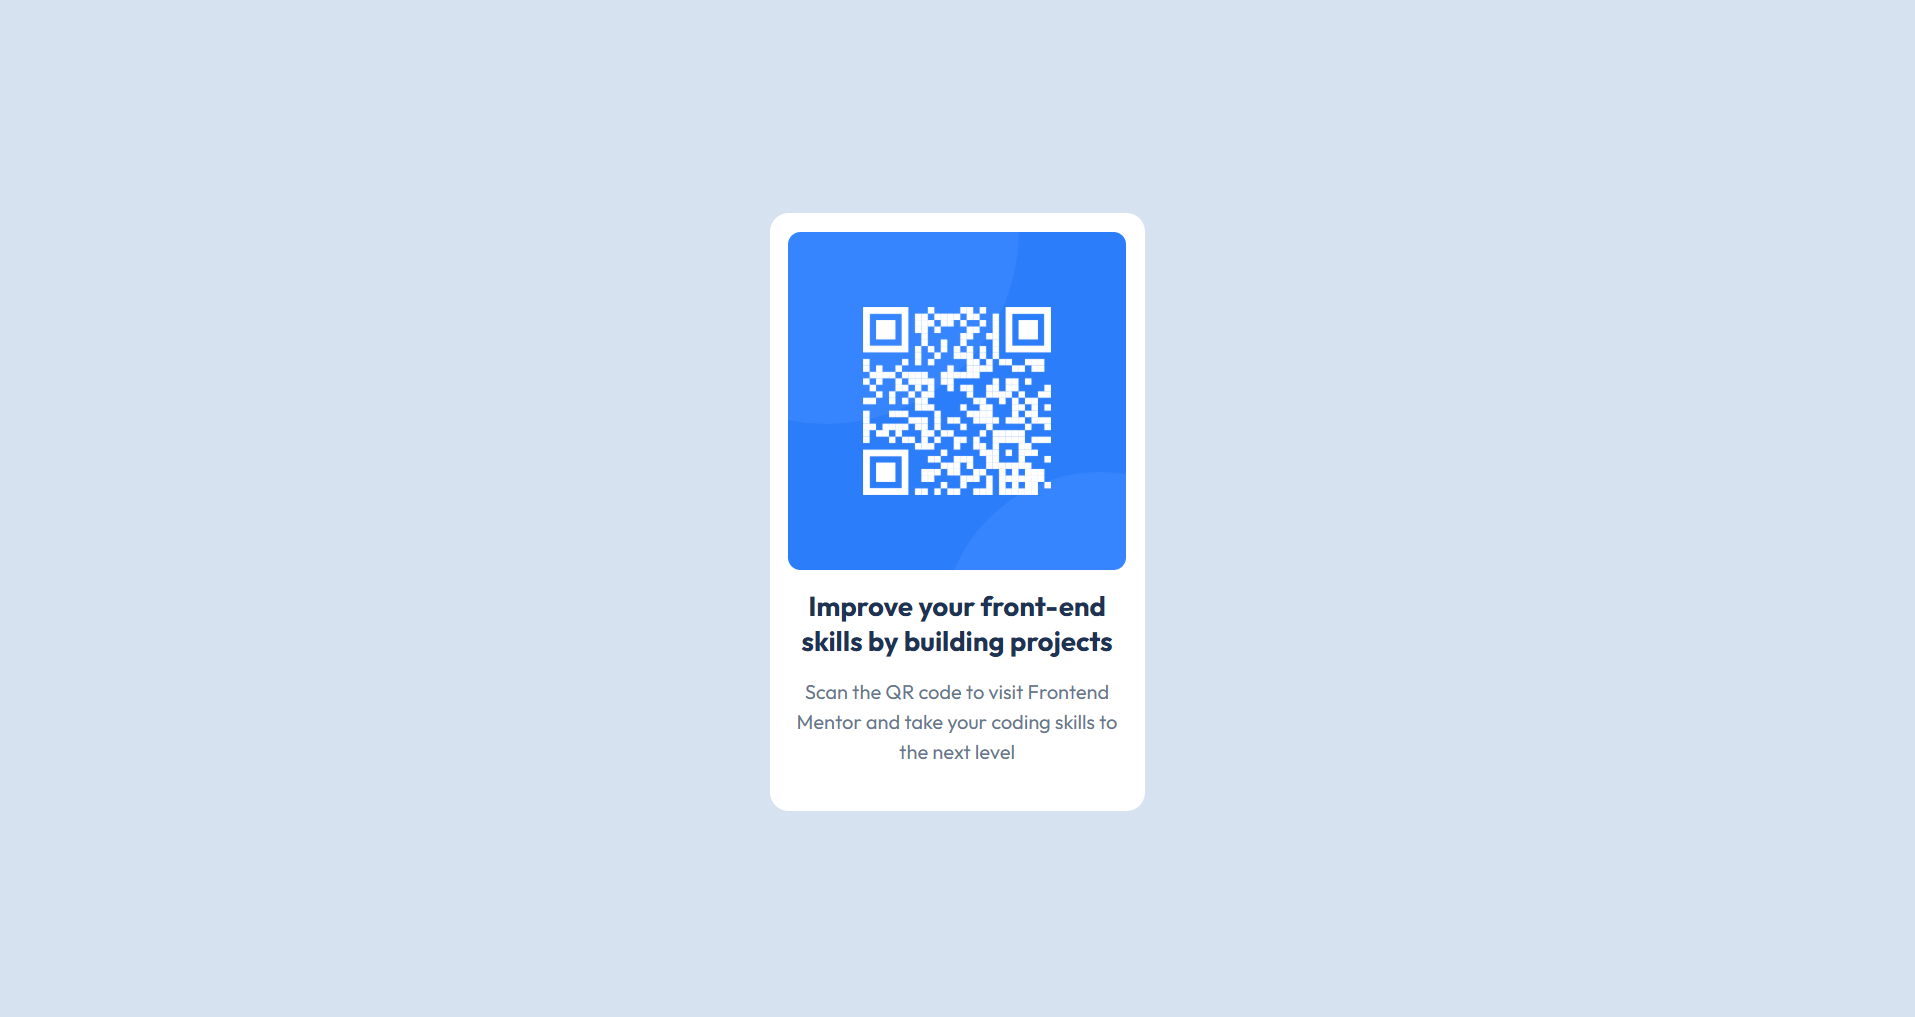
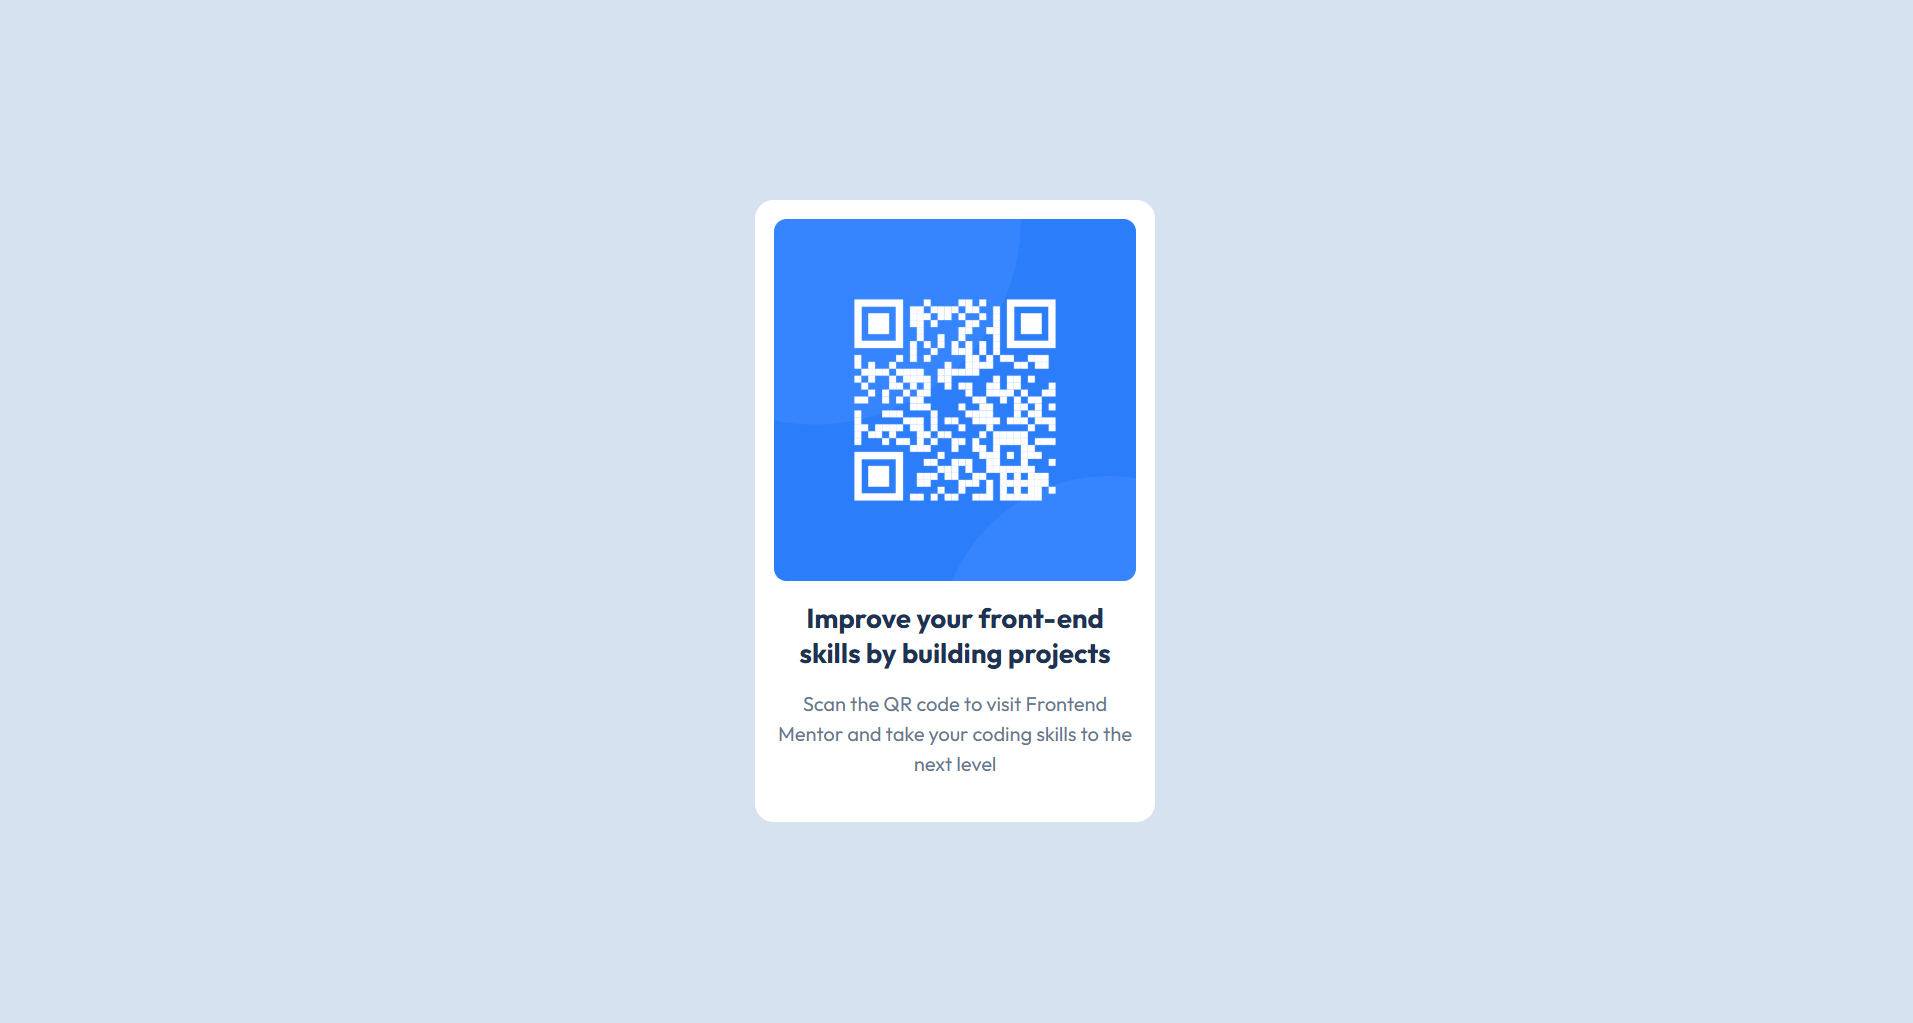
Updated readme

Changed region(s): [[0.3701, 0.1829, 0.6168, 0.823]]

diff --git a/index.html b/index.html
@@ -41,9 +41,10 @@
       align-items: center;
       justify-content: center;
       background-color: var(--white);
-      width: 300px;
+      width: 320px;
       padding: 15px;
       border-radius: 15px;
+    
     }
     .qr-card > img{
      width: 100%;
